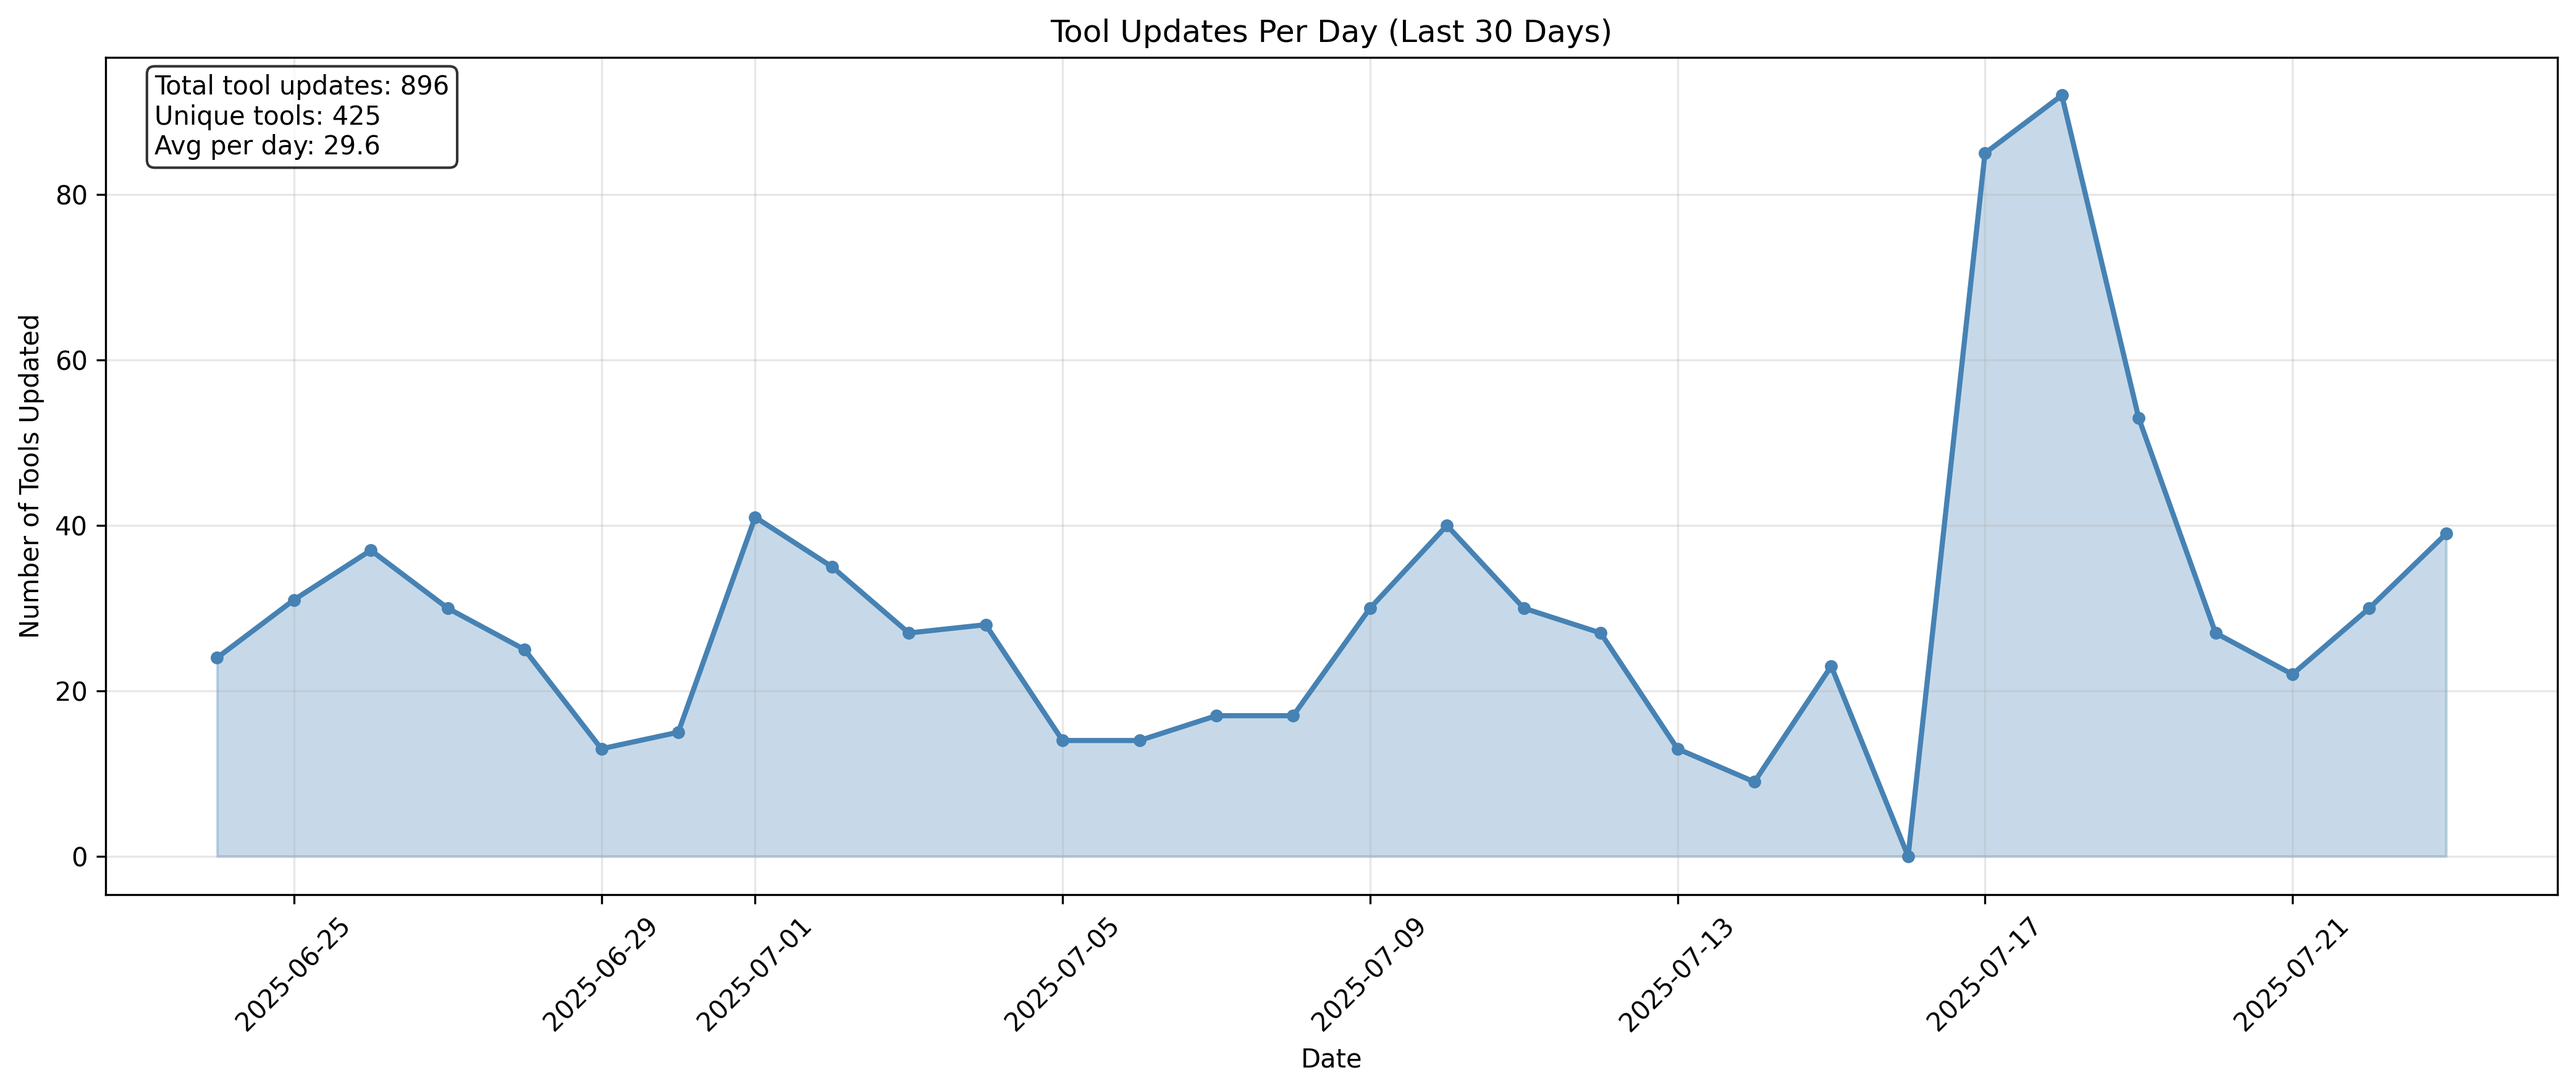
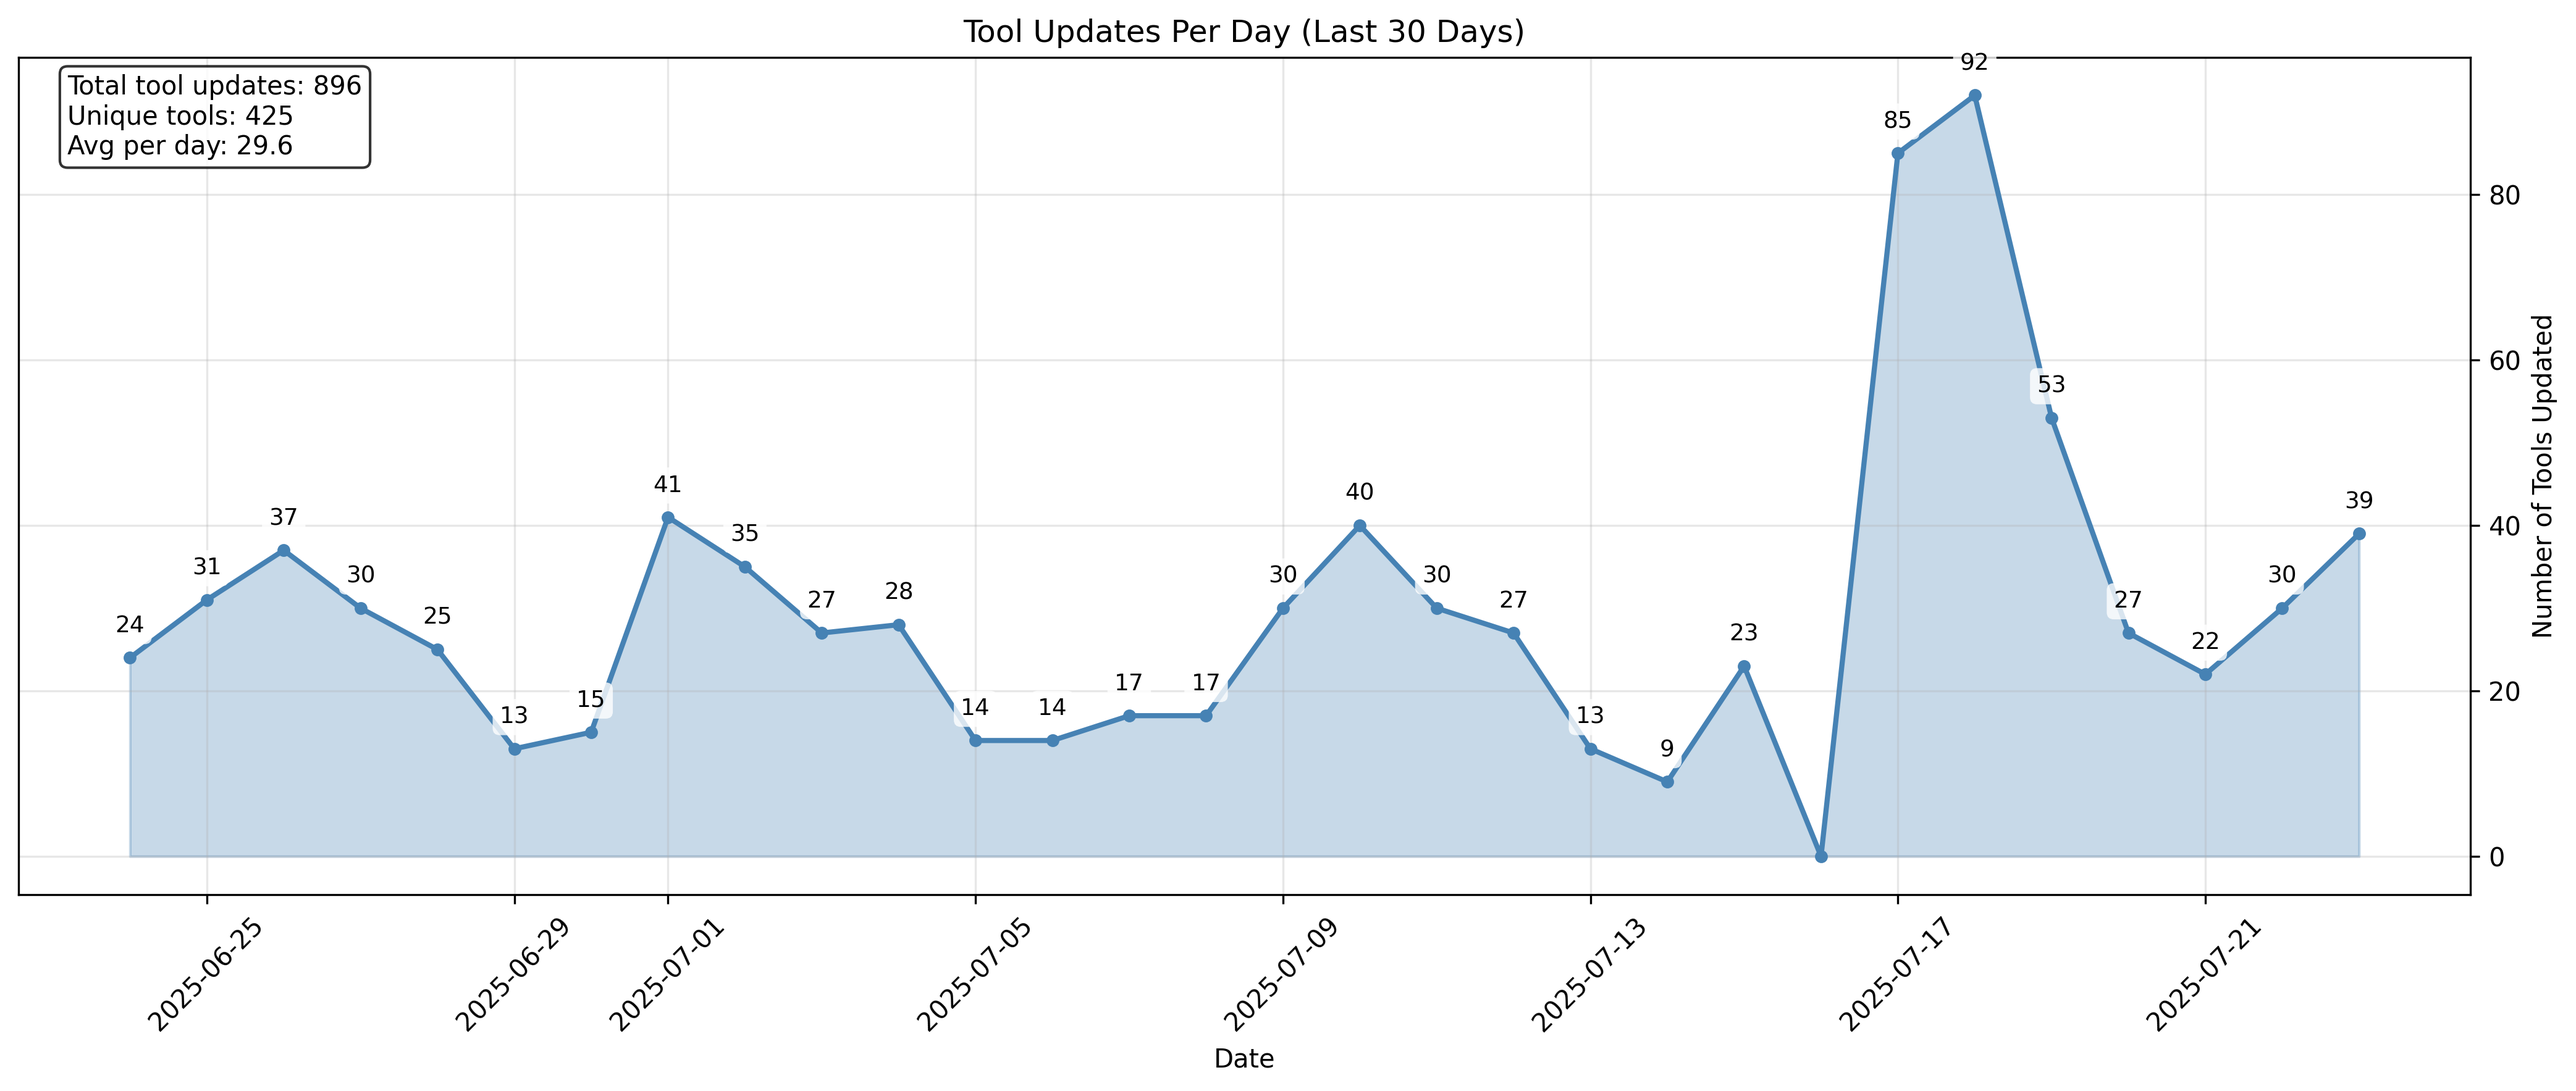
feat: enhance chart rendering with annotations and axis adjustments
- Add text annotations for non-zero tool update counts in charts
- Move y-axis label to the right for better visibility

diff --git a/scripts/render-charts.py b/scripts/render-charts.py
@@ -106,9 +106,23 @@ def create_chart(daily_updates, days_back, output_dir="charts"):
     plt.plot(dates, counts, marker='o', linewidth=2, markersize=4, color='steelblue')
     plt.fill_between(dates, counts, alpha=0.3, color='steelblue')
     
+    # Add text annotations for non-zero values
+    for i, (date, count) in enumerate(zip(dates, counts)):
+        if count > 0:
+            plt.annotate(str(count), (date, count), 
+                        textcoords="offset points", xytext=(0,8), 
+                        ha='center', va='bottom', fontsize=9, 
+                        bbox=dict(boxstyle='round,pad=0.3', facecolor='white', alpha=0.8, edgecolor='none'))
+    
     plt.title(f'Tool Updates Per Day (Last {days_back} Days)')
     plt.xlabel('Date')
     plt.ylabel('Number of Tools Updated')
+    
+    # Move y-axis label to the right
+    ax = plt.gca()
+    ax.yaxis.set_label_position("right")
+    ax.yaxis.tick_right()
+    
     plt.grid(True, alpha=0.3)
     plt.xticks(rotation=45)
     
